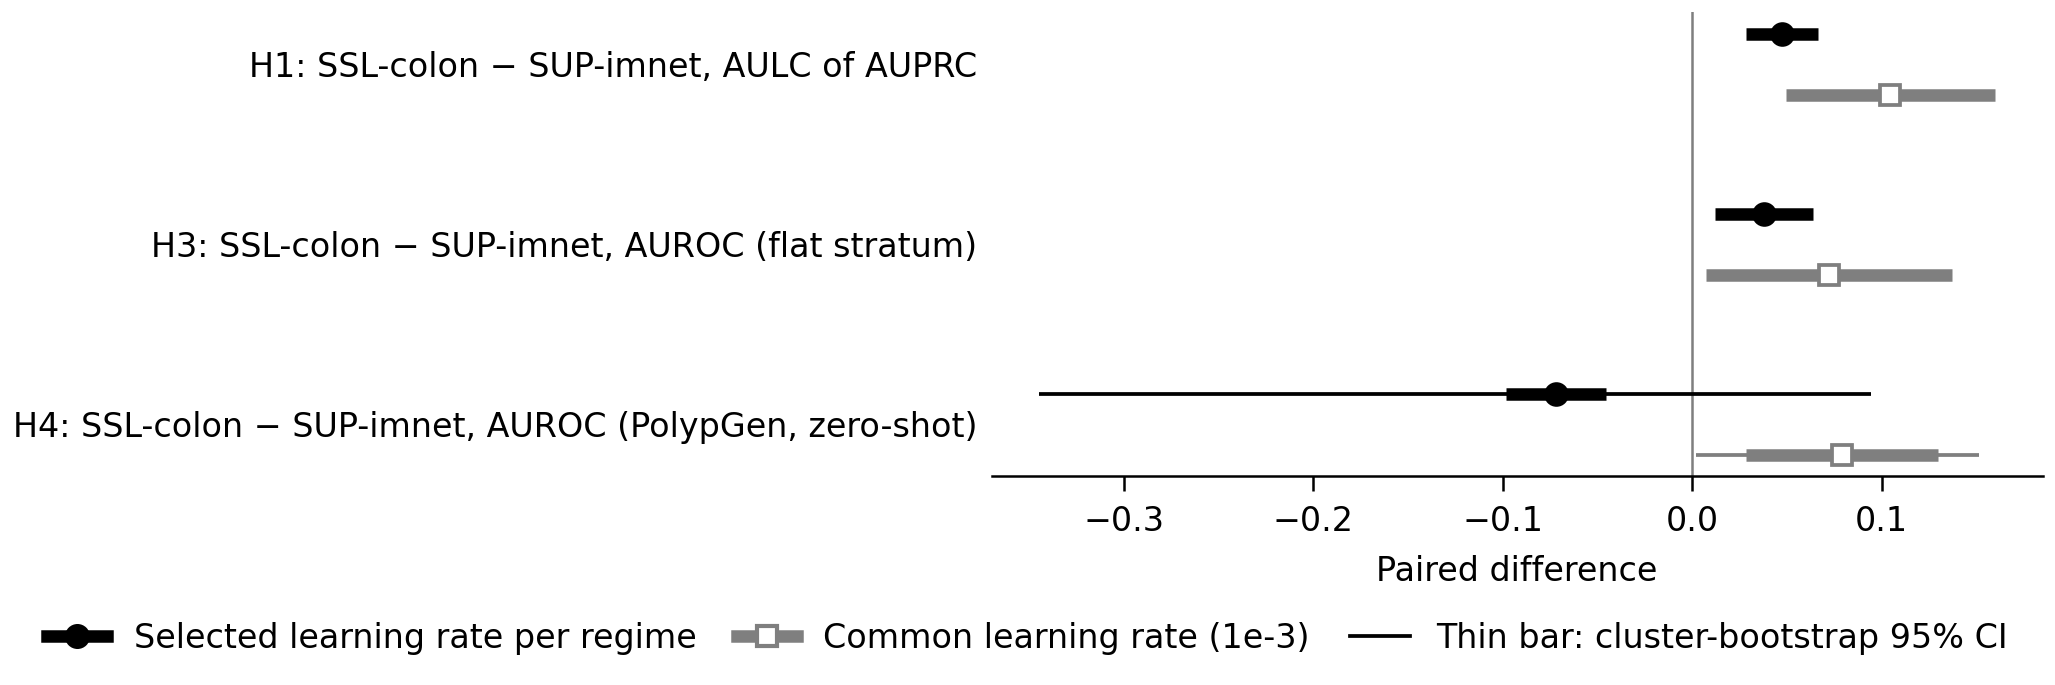
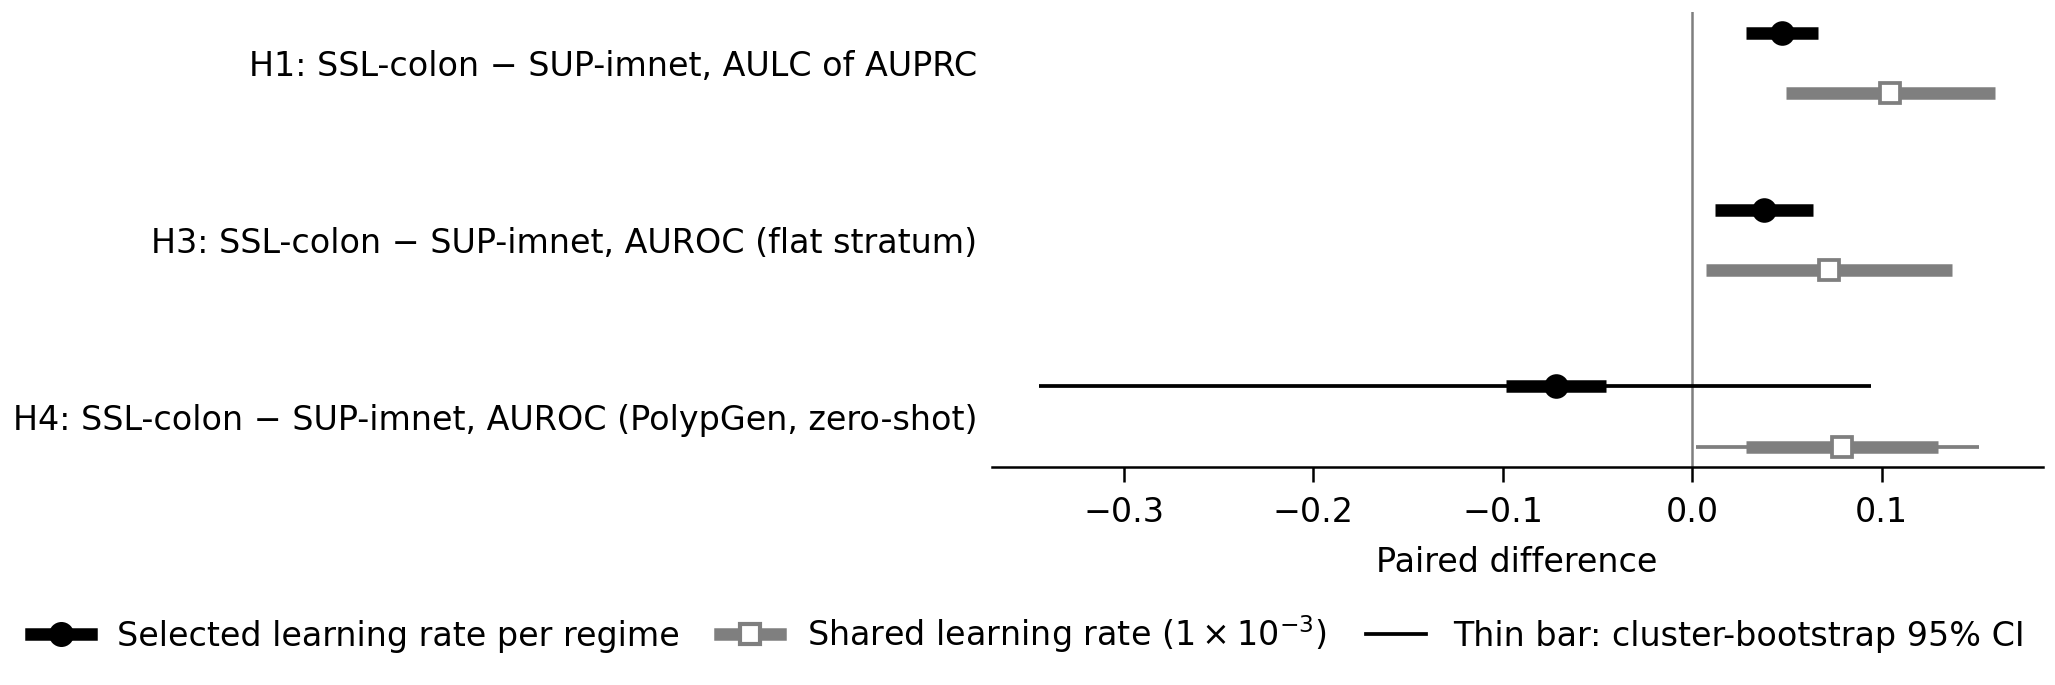
Figures 4 and 6 relabelled ('All centers'; 'Shared learning rate (1x10^-3)')
Only figures 4 and 6 regenerated (--only 4 6); their plotted_values rows
updated, all other rows and files unchanged (round-trip CSV read).

diff --git a/analysis/v3/figures_final.py b/analysis/v3/figures_final.py
@@ -305,7 +305,7 @@ def main() -> int:
         jobs[number]()
     plotted = pd.DataFrame(ROWS)
     if args.only and (OUT / "plotted_values.csv").exists():
-        kept = pd.read_csv(OUT / "plotted_values.csv")
+        kept = pd.read_csv(OUT / "plotted_values.csv", float_precision="round_trip")  # keep the rows bit for bit
         kept = kept[~kept["figure"].isin([f"Figure {n}" for n in selected])]
         plotted = pd.concat([kept, plotted], ignore_index=True)
         plotted["_order"] = plotted["figure"].str.extract(r"(\d+)").astype(int)
